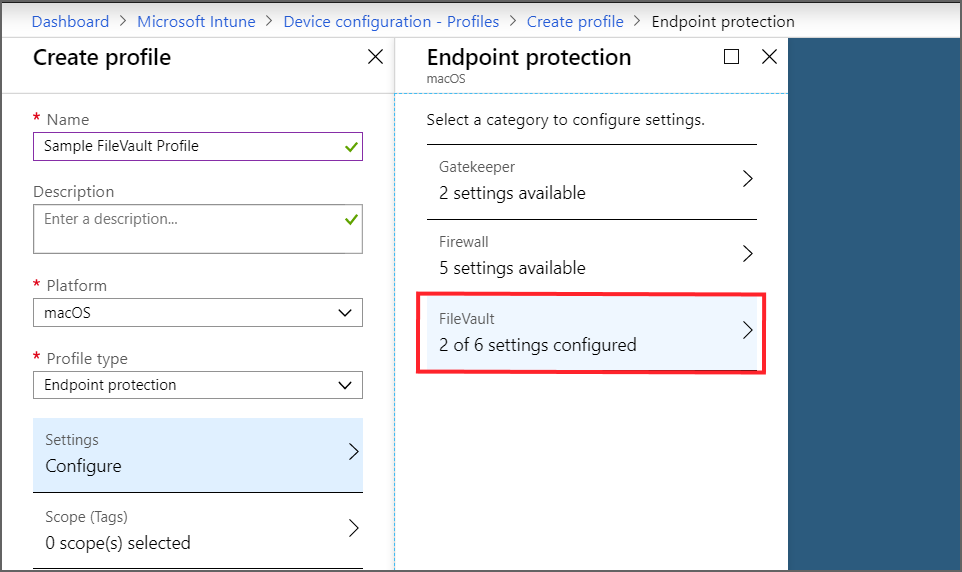
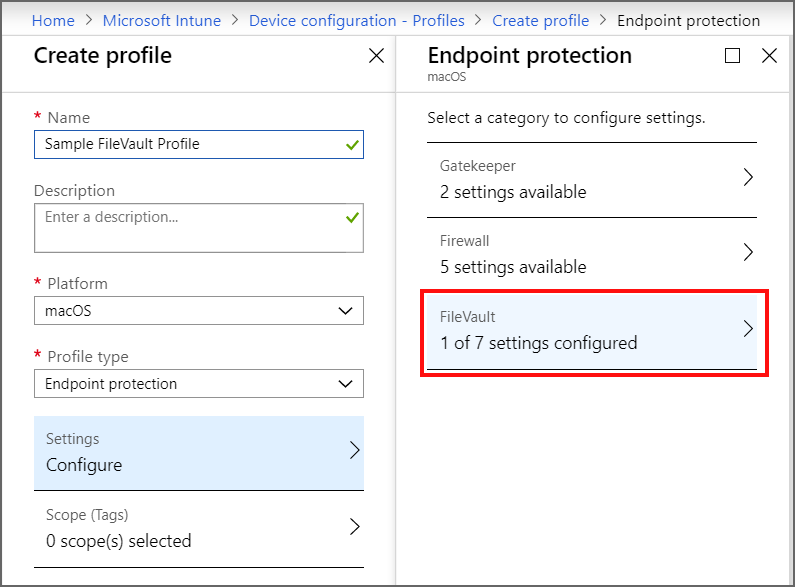
Introducing edits frmo https://github.com/MicrosoftDocs/IntuneDocs-pr/pull/8483 into this repo

diff --git a/intune/endpoint-protection-macos.md b/intune/endpoint-protection-macos.md
@@ -7,7 +7,7 @@ keywords:
 author: brenduns
 ms.author: brenduns
 manager: dougeby
-ms.date: 07/18/2019
+ms.date: 07/19/2019
 ms.topic: reference
 ms.service: microsoft-intune
 ms.localizationpriority: medium
@@ -96,24 +96,36 @@ For more information about Apple FileVault settings, see [FDEFileVault](https://
   - **Recovery key type**  
     *Personal key* recovery keys are created for devices. Configure the following settings for the personal key.  
 
-      **Location of personal recovery key** - Specify a short message to the user that explains how they can retrieve their personal recovery key. This text is inserted into the message the user sees when enabling FileVault.  
+    - **Location of personal recovery key** - Specify a short message to the user that explains how they can retrieve their personal recovery key. This text is inserted into the message the user sees when enabling FileVault.  
       
-      **Personal recovery key rotation** - Specify how frequently the personal recovery key for a device will rotate. You can select the default of **Not configured**, or a value of **1** to **12** months.  
+    - **Personal recovery key rotation** - Specify how frequently the personal recovery key for a device will rotate. You can select the default of **Not configured**, or a value of **1** to **12** months.  
 
-  - **Disable prompt at sign out**  
-    Prevent the prompt to the user that requests they enable FileVault when they sign out.  
+  - **Defer FileVault until sign out**  
+    > [!NOTE]
+    > Support for FileVault is limited until the July release completes rollout in a few days. Until rollout is complete, if you configure FileVault, you must set *Defer FileVault until sign out* to **Enable**.   
+
+    FileVault will not be enabled until the user signs out. A local user or mobile account user will be prompted to enable FileVault on sign out or the next sign in.  
     - **Not configured**  
     - **Enable**  
 
     **Default**: Not configured  
 
-  - **Number of times allowed to bypass**  
+
+
+    - **Disable prompt at sign out**  
+      Prevent the prompt to the user that requests they enable FileVault when they sign out.  
+      - **Not configured**  
+      - **Enable**  
+
+      **Default**: Not configured  
+
+    - **Number of times allowed to bypass**  
     Set the number of times a user can ignore prompts to enable FileVault before FileVault is required for the user to sign in.  
 
-    - **Not configured** - Encryption on the device is required before the next sign-in is allowed.  
-    -  **1** to **10** - Allow a user to ignore the prompt from 1 to 10 times before requiring encryption on the device.  
-    - **No limit, always prompt** - The user is prompted to enable FileVault but encryption is never required.  
+      - **Not configured** - Encryption on the device is required before the next sign-in is allowed.  
+      -  **1** to **10** - Allow a user to ignore the prompt from 1 to 10 times before requiring encryption on the device.  
+      - **No limit, always prompt** - The user is prompted to enable FileVault but encryption is never required.  
  
-    **Default**: Not configured  
+      **Default**: Not configured  
 
 

diff --git a/intune/encryption-monitor.md b/intune/encryption-monitor.md
@@ -7,7 +7,7 @@ keywords:
 author: brenduns
 ms.author: brenduns
 manager: dougeby
-ms.date: 07/22/2019
+ms.date: 07/19/2019
 ms.topic: conceptual
 ms.service: microsoft-intune
 ms.localizationpriority: high
@@ -96,7 +96,10 @@ When you select a device from the Encryption report, Intune displays the **Devic
 - **Profile state summary** – A summary of the profiles that apply to this device. The summary represents the least favorable condition across the applicable profiles. For example, if only one out of several applicable profiles results in an error, the *Profile state summary* will display *Error*.  
 
 - **Status details** – Advanced details about the device’s encryption state.  
-  > [!NOTE]  
+  > [!NOTE]
+  > Support for FileVault is limited until the July release completes rollout in a few days. Until rollout is complete, device status details and device encryption details for macOS might not accurately display in the encryption report.
+
+  > [!IMPORTANT]  
   > For Windows 10 devices, Intune only shows *Status details* for devices that run the *Windows 10 April 2019 Update* or later.  
   
   This field displays information for each applicable error that can be detected. You can use this information to understand why a device might not be encryption ready.  

diff --git a/intune/encrypt-devices.md b/intune/encrypt-devices.md
@@ -7,7 +7,7 @@ keywords:
 author: brenduns
 ms.author: brenduns
 manager: dougeby
-ms.date: 07/22/2019
+ms.date: 07/19/2019
 ms.topic: conceptual
 ms.service: microsoft-intune
 ms.localizationpriority: high
@@ -70,6 +70,9 @@ For details about the FileVault setting you can manage with Intune, see [FileVau
    For example: To retrieve a lost or recently rotated recovery key, sign in to the Intune Company Portal website from any device. In the portal, go to *Devices* and select the device that has FileVault enabled, and then select *Get recovery key*. The current recovery key is displayed.  
 
 6. Configure the remaining settings to meet your business needs, and then select **OK**.  
+
+   > [!NOTE]
+   > Support for FileVault is limited until the July release completes rollout in a few days. Until rollout is complete, if you configure FileVault, you must set *Defer FileVault until sign out* to **Enable**.  
 
 7. Complete configuration of additional settings, and then save the profile.  
 
